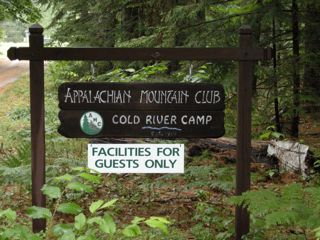
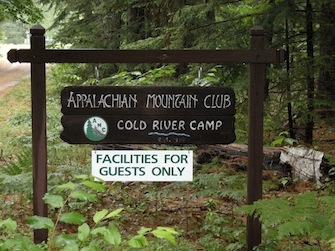
resize thumbnails with higher resolution, change thumbnail to use evening light by J. DiCarlo

diff --git a/index.html b/index.html
@@ -133,16 +133,18 @@
                            
                   </td>     
                                
-                    <td width="680"><div align="center"><img src="Images/LedHikeS.jpg" name="photo1" width="310" height="190" alt="AMC Cold River Camp" usemap="#m_Photo1" />&nbsp;
-                     <img src="Images/Conant_Lodge_and_GardenS.jpg" name="Photo2" width="310" height="186"usemap="#m_Photo2" alt="AMC Cold River Camp"/>
+                    <td width="680">
+                        <div align="center">
+                            <img src="Images/LedHikeS.jpg" name="photo1" width="310" height="186" alt="AMC Cold River Camp" usemap="#m_Photo1" />&nbsp;
+                            <img src="Images/EveningLight_12S.jpg" name="Photo2" width="310" height="186"usemap="#m_Photo2" alt="AMC Cold River Camp"/>
                     
-                      <map name="m_Photo1" id="m_Photo1">
-                         <area id="Photo1" shape="rect" coords="-6,-4,320,188" href="Images/LedHikeL.jpg" target="_new" alt="AMC Cold River Camp"></area>
-                          </map>
-                     <map name="m_Photo2" id="m_Photo2">
-                     <area id="Photo2" shape="rect" coords="-1,-1,308,194" href="Images/Conant_Lodge_and_Garden.jpg" target="_new" alt="AMC Cold River Camp" ></area>
-                      </map>
-                    </div>
+                            <map name="m_Photo1" id="m_Photo1">
+                                <area id="Photo1" shape="rect" coords="0,0,310,186" href="Images/LedHikeL.jpg" target="_new" alt="AMC Cold River Camp"></area>
+                            </map>
+                            <map name="m_Photo2" id="m_Photo2">
+                                <area id="Photo2" shape="rect" coords="0,0,310,186" href="Images/EveningLight_12L.jpg" target="_new" alt="AMC Cold River Camp" ></area>
+                            </map>
+                        </div>
                   </td>
                 </tr>
              </table>
@@ -163,7 +165,7 @@
    			    <img src="Images/CRCSignS.jpg" name="map1" width="335" height="216" align="right" hspace='10px'
                       usemap="#m_map1" alt="CRC camp sign"/>
                  <map name="m_map1" id="m_map1">
-                      <area id="map1" shape="rect" coords="0,0,345,220" href="Images/CRCSignL.jpg" target="_new" alt="CRC camp sign" ></area>
+                      <area id="map1" shape="rect" coords="0,0,335,216" href="Images/CRCSignL.jpg" target="_new" alt="CRC camp sign" ></area>
                  </map>
      			          
                 <p align="justify"><br />
